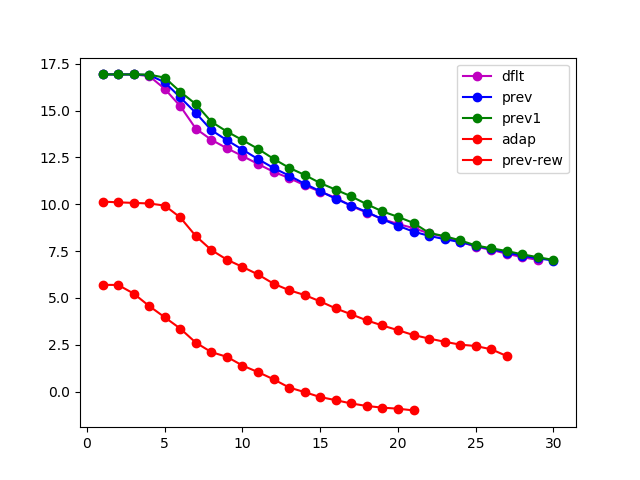
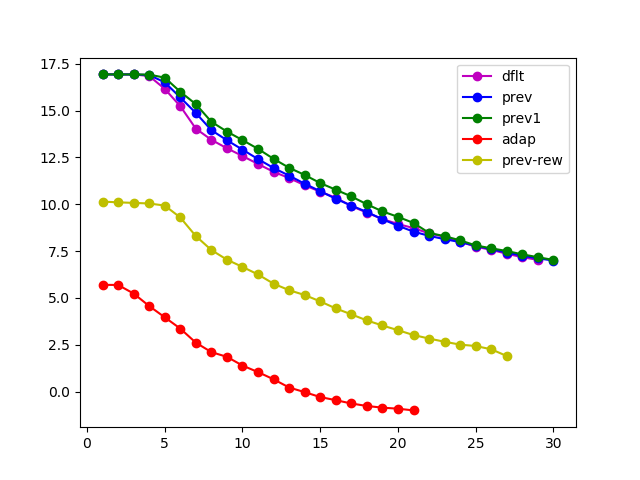
error correct color

diff --git a/tumor2d/eval/script_tumor2d_eval.py b/tumor2d/eval/script_tumor2d_eval.py
@@ -98,7 +98,7 @@ def epsilon():
     plt.plot(t[:len(eps_prev.values)],np.log(eps_prev.values), 'bo-', label="prev")
     plt.plot(t[:len(eps_prev1.values)],np.log(eps_prev1.values), 'go-', label="prev1")
     plt.plot(t[:len(eps_adap.values)],np.log(eps_adap.values), 'ro-', label="adap")
-    plt.plot(t[:len(eps_prev_rew.values)],np.log(eps_prev_rew.values), 'ro-', label="prev-rew")
+    plt.plot(t[:len(eps_prev_rew.values)],np.log(eps_prev_rew.values), 'yo-', label="prev-rew")
     plt.legend()
     fig.savefig("eps")
     plt.close()
